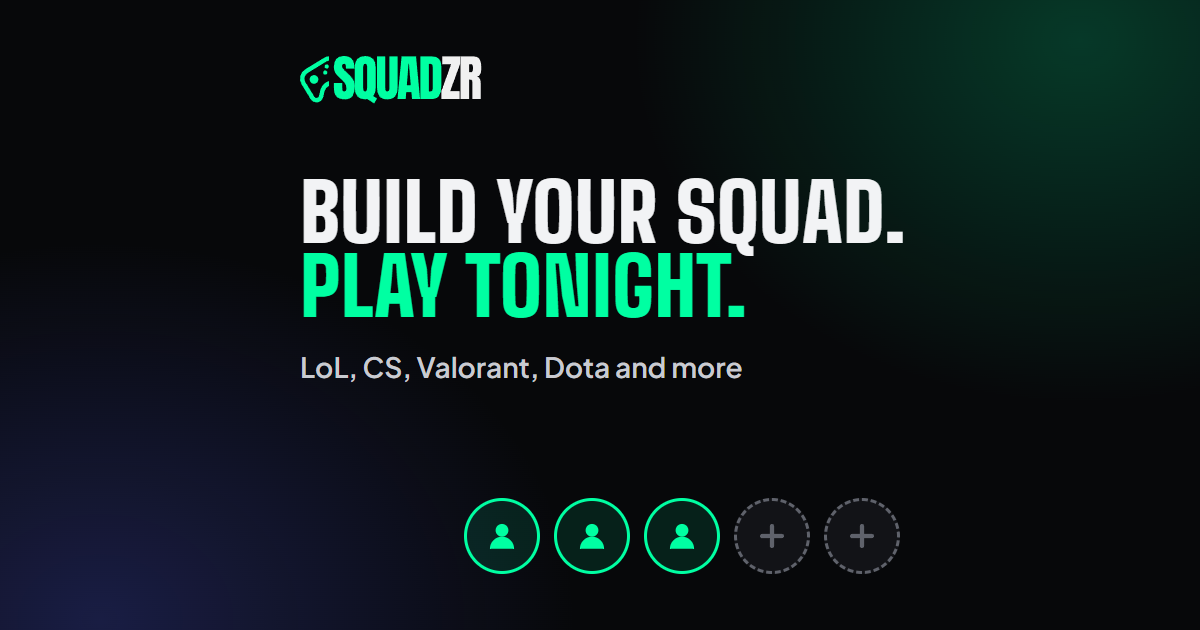
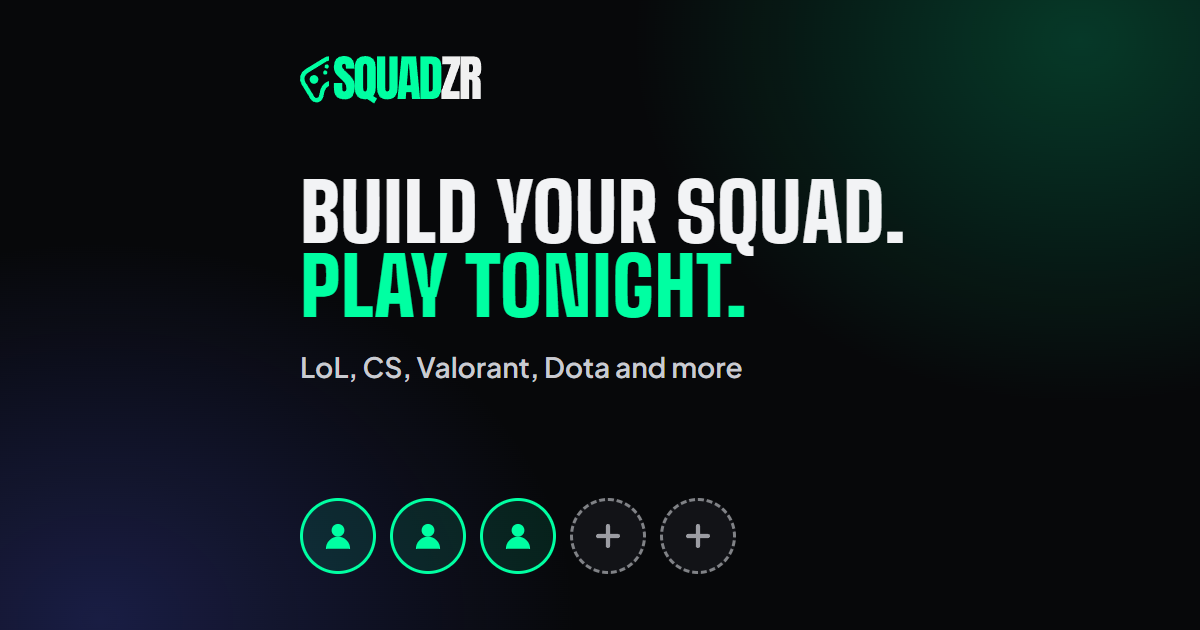
fix(client): og:url only on the landing, full fallback title, clearer open slots (#151 review)
- The default preview no longer declares og:url; only the landing does, so /squads, admin, 404 and missing-Squad pages don't claim the landing's canonical address.
- A missing, Ready or expired Squad's <title> matches its preview title.
- The preview image's open slots are brighter and the slot row aligns with the text; the source comment says 600px.

Changed region(s): [[0.2467, 0.7841, 0.7092, 0.9349], [0.7092, 0.8444, 0.74, 0.8746], [0.7092, 0.7841, 0.74, 0.8143]]

diff --git a/client/src/lib/site-metadata.spec.ts b/client/src/lib/site-metadata.spec.ts
@@ -1,5 +1,11 @@
 import { describe, expect, it } from 'vitest'
-import { DEFAULT_PREVIEW, ROOT_METADATA, SITE_DESCRIPTION, SITE_TITLE } from './site-metadata'
+import {
+  DEFAULT_PREVIEW,
+  LANDING_METADATA,
+  ROOT_METADATA,
+  SITE_DESCRIPTION,
+  SITE_TITLE,
+} from './site-metadata'
 
 const image = {
   url: '/og-landing.png',
@@ -19,7 +25,6 @@ describe('the default metadata', () => {
     expect(ROOT_METADATA.openGraph).toEqual({
       siteName: 'Squadzr',
       type: 'website',
-      url: '/',
       title: SITE_TITLE,
       description: SITE_DESCRIPTION,
       images: [image],
@@ -43,5 +48,11 @@ describe('the default metadata', () => {
 
   it('shares the preview with pages that fall back to it', () => {
     expect(ROOT_METADATA).toMatchObject(DEFAULT_PREVIEW)
+  })
+
+  it('declares og:url only on the landing, so an inheriting page never claims its address', () => {
+    expect(DEFAULT_PREVIEW.openGraph).not.toHaveProperty('url')
+    expect(LANDING_METADATA.title).toBe(SITE_TITLE)
+    expect(LANDING_METADATA.openGraph).toEqual({ ...DEFAULT_PREVIEW.openGraph, url: '/' })
   })
 })

diff --git a/client/src/features/lobby/lobby-metadata.ts b/client/src/features/lobby/lobby-metadata.ts
@@ -2,7 +2,7 @@ import 'server-only'
 import type { Metadata } from 'next'
 import { PLATFORM_LABELS, type PublicRoomDto } from '@squadzr/schemas'
 import { lobbyHref } from '@/lib/squad-links'
-import { DEFAULT_PREVIEW, SITE_OPEN_GRAPH } from '@/lib/site-metadata'
+import { DEFAULT_PREVIEW, SITE_OPEN_GRAPH, SITE_TITLE } from '@/lib/site-metadata'
 import messages from '@/locales/en.json'
 import { publicSquadSource } from './server-squad-source'
 import { readSquadDetails } from './squad-details'
@@ -11,7 +11,7 @@ import { readSquadDetails } from './squad-details'
  * The metadata of a page with no Squad to preview: a missing, Ready or expired Squad, or a failed read.
  * It shows the landing's preview, never Squad details.
  */
-const GENERIC_METADATA: Metadata = { title: { absolute: 'Squadzr' }, ...DEFAULT_PREVIEW }
+const GENERIC_METADATA: Metadata = { title: { absolute: SITE_TITLE }, ...DEFAULT_PREVIEW }
 
 /**
  * The invite preview of a Squad link. The Squad and its game come from the public projection, read

diff --git a/client/og/landing-preview.html b/client/og/landing-preview.html
@@ -8,7 +8,7 @@
       --screenshot="%CD%\public\og-landing.png" "file:///%CD%/og/landing-preview.html"
 
   (Any Chromium works; on macOS or Linux use $PWD.) The fonts are the site's own, loaded from Google Fonts.
-  The content sits in the middle 630px column, so the image still reads when WhatsApp crops it to a square.
+  The content sits in the middle 600px column (15px inside the 630px square), so the image still reads when WhatsApp crops it to a square.
 -->
 <html lang="en">
   <head>
@@ -85,7 +85,7 @@
       }
       .slots {
         margin-top: auto;
-        align-self: flex-end;
+        align-self: flex-start;
         display: flex;
         gap: 14px;
       }
@@ -103,8 +103,8 @@
       }
       .slot.open {
         background: var(--card);
-        border: 3px dashed var(--faint);
-        color: var(--faint);
+        border: 3px dashed rgba(201, 203, 209, 0.6);
+        color: rgba(201, 203, 209, 0.75);
       }
       .slot svg {
         width: 34px;

diff --git a/client/src/lib/site-metadata.ts b/client/src/lib/site-metadata.ts
@@ -34,7 +34,6 @@ export const DEFAULT_PREVIEW = {
   description: SITE_DESCRIPTION,
   openGraph: {
     ...SITE_OPEN_GRAPH,
-    url: '/',
     title: SITE_TITLE,
     description: SITE_DESCRIPTION,
     images: [SITE_PREVIEW_IMAGE],
@@ -45,6 +44,15 @@ export const DEFAULT_PREVIEW = {
     description: SITE_DESCRIPTION,
     images: [SITE_PREVIEW_IMAGE],
   },
+} satisfies Metadata
+
+/**
+ * The landing's own metadata. Only the landing declares `og:url`: a page that inherits the default preview
+ * must not claim the landing's address, which Facebook and LinkedIn read as the canonical one.
+ */
+export const LANDING_METADATA = {
+  title: SITE_TITLE,
+  openGraph: { ...DEFAULT_PREVIEW.openGraph, url: '/' },
 } satisfies Metadata
 
 /** The root layout's metadata: the base URL, the title template, the default preview and the icons. */

diff --git a/client/src/features/lobby/lobby-metadata.spec.ts b/client/src/features/lobby/lobby-metadata.spec.ts
@@ -1,6 +1,6 @@
 import { afterEach, describe, expect, it, vi } from 'vitest'
 import { API_INTERNAL_URL } from '@/env.server'
-import { DEFAULT_PREVIEW } from '@/lib/site-metadata'
+import { DEFAULT_PREVIEW, SITE_TITLE } from '@/lib/site-metadata'
 import { lobbySquad } from '@/test/fixtures'
 import { lobbyMetadata } from './lobby-metadata'
 
@@ -39,7 +39,7 @@ afterEach(() => {
 })
 
 /** The landing's preview, never Squad details. */
-const GENERIC = { title: { absolute: 'Squadzr' }, ...DEFAULT_PREVIEW }
+const GENERIC = { title: { absolute: SITE_TITLE }, ...DEFAULT_PREVIEW }
 
 describe('lobbyMetadata', () => {
   it('gives an Open Squad the full invite preview: name and game, size, language, tags and cover', async () => {

diff --git a/client/src/app/(landing)/page.tsx b/client/src/app/(landing)/page.tsx
@@ -9,12 +9,10 @@ import { LandingNav } from '@/components/landing/landing-nav'
 import { PopularGames } from '@/components/landing/popular-games'
 import { MotionProvider } from '@/components/ui/motion-provider'
 import { loadPopularGames } from '@/lib/server/games'
-import { SITE_TITLE } from '@/lib/site-metadata'
+import { LANDING_METADATA } from '@/lib/site-metadata'
 
 // The root layout's title template does not reach a page at its own level, so the landing names the app itself.
-export const metadata: Metadata = {
-  title: SITE_TITLE,
-}
+export const metadata: Metadata = LANDING_METADATA
 
 /**
  * The landing. The games come from the server, and every section renders in the server HTML, so the
